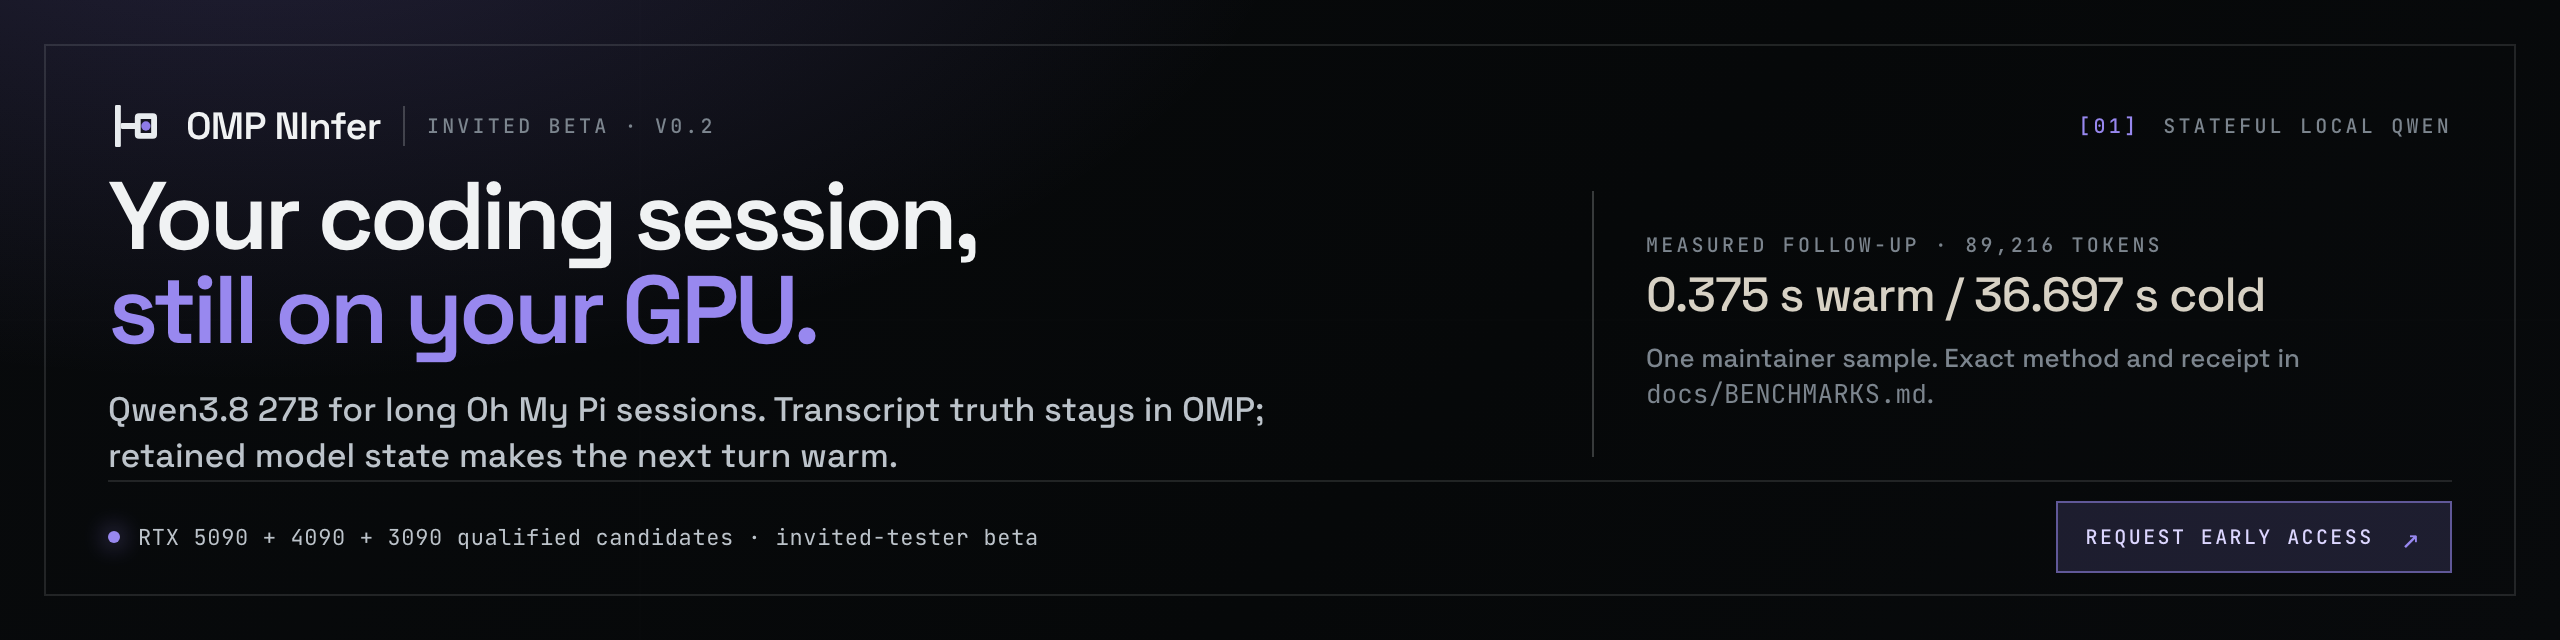
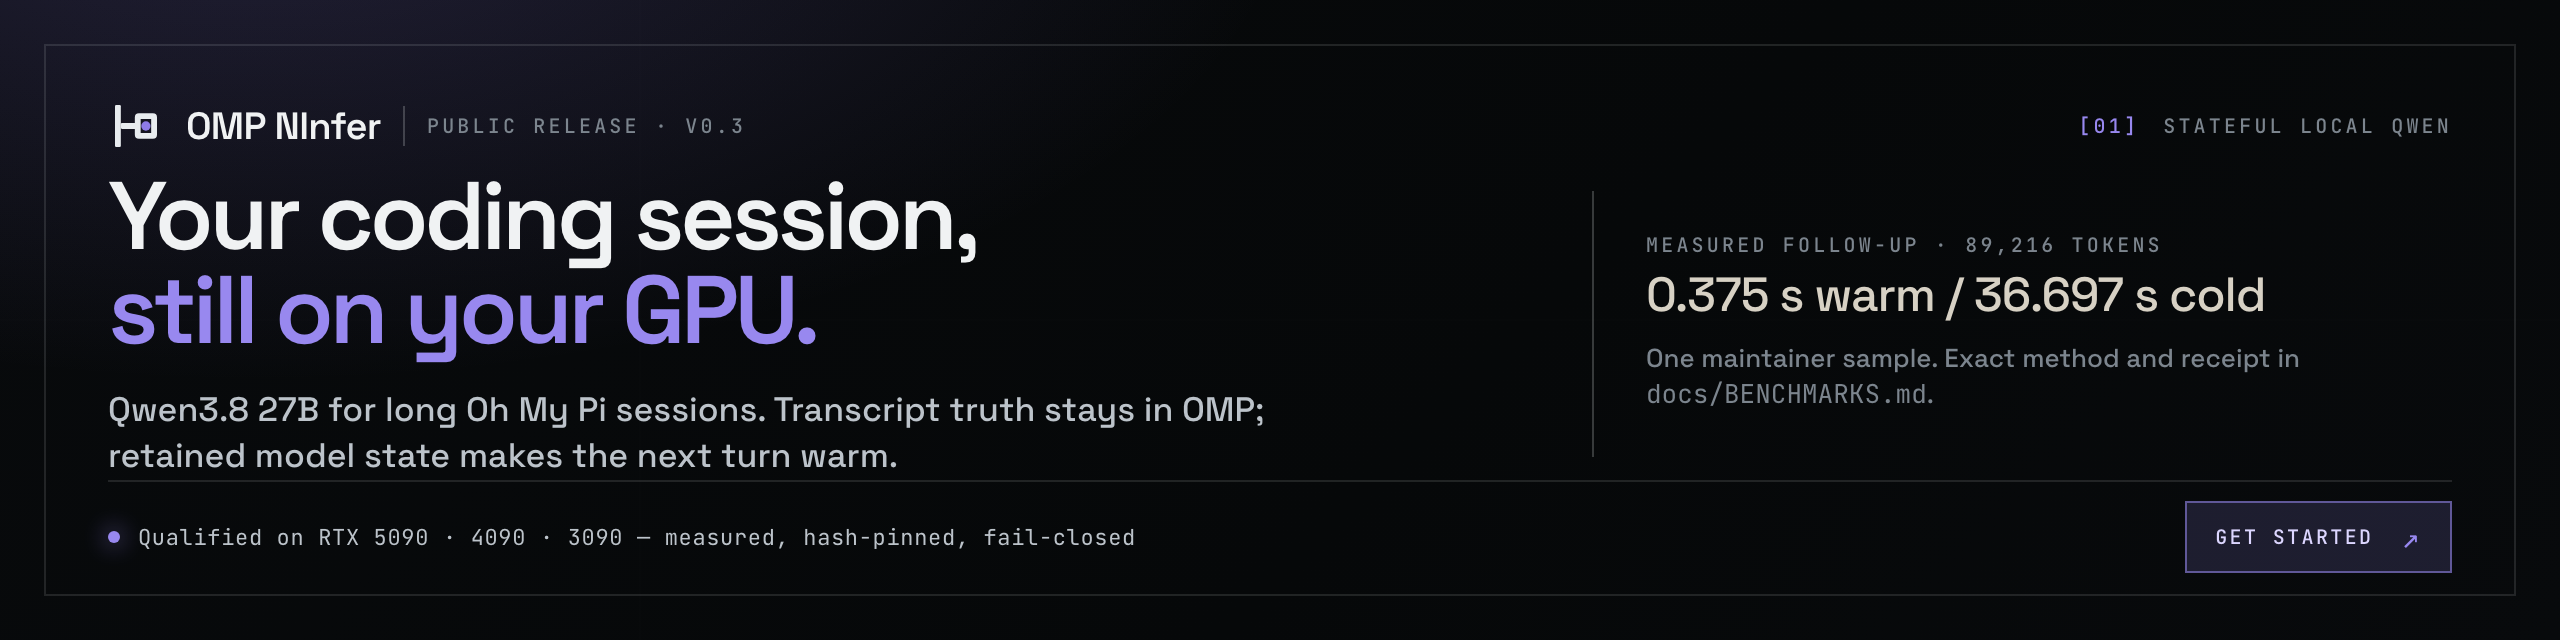
feat(assets): re-render release surfaces for v0.3

Changed region(s): [[0.0625, 0.8125, 0.4375, 0.875], [0.7812, 0.7812, 0.9375, 0.9062], [0.1562, 0.1875, 0.2812, 0.2188]]

diff --git a/assets/banner.html b/assets/banner.html
@@ -24,7 +24,7 @@
 <body>
 <div class="canvas banner">
   <div class="top">
-    <div class="brand"><img src="logo.svg" alt=""><span class="brand-name">OMP NInfer</span><span class="brand-rule"></span><span class="eyebrow">Invited beta · v0.2</span></div>
+    <div class="brand"><img src="logo.svg" alt=""><span class="brand-name">OMP NInfer</span><span class="brand-rule"></span><span class="eyebrow">Public release · v0.3</span></div>
     <div class="release eyebrow"><span class="index">[01]</span><span>Stateful local Qwen</span></div>
   </div>
   <div class="hero">
@@ -39,8 +39,8 @@
     </div>
   </div>
   <div class="bottom">
-    <div class="lane mono"><i></i><span>RTX 5090 + 4090 + 3090 qualified candidates · invited-tester beta</span></div>
-    <div class="cta"><span>Request early access</span><b>↗</b></div>
+    <div class="lane mono"><i></i><span>Qualified on RTX 5090 · 4090 · 3090 — measured, hash-pinned, fail-closed</span></div>
+    <div class="cta"><span>Get started</span><b>↗</b></div>
   </div>
 </div>
 </body>

diff --git a/assets/benchmarks.html b/assets/benchmarks.html
@@ -34,7 +34,7 @@
 <body>
 <div class="canvas evidence">
   <div class="head">
-    <div class="brand"><img src="logo.svg" alt=""><span class="brand-name">OMP NInfer</span><span class="brand-rule"></span><span class="eyebrow">Released evidence · v0.2</span></div>
+    <div class="brand"><img src="logo.svg" alt=""><span class="brand-name">OMP NInfer</span><span class="brand-rule"></span><span class="eyebrow">Released evidence · v0.3</span></div>
     <div class="eyebrow">Measured, not estimated</div>
   </div>
   <div class="main">
@@ -53,7 +53,7 @@
       <div class="lanes">
         <span class="pill"><span class="dot"></span>5090 qualified</span>
         <span class="pill"><span class="dot"></span>4090 qualified</span>
-        <span class="pill"><span class="dot"></span>3090 candidate</span>
+        <span class="pill"><span class="dot"></span>3090 qualified</span>
       </div>
     </aside>
   </div>

diff --git a/assets/og.html b/assets/og.html
@@ -30,7 +30,7 @@
 <body>
 <div class="canvas og">
   <div class="top">
-    <div class="brand"><img src="logo.svg" alt=""><span class="brand-name">OMP NInfer</span><span class="brand-rule"></span><span class="eyebrow">Invited-tester beta</span></div>
+    <div class="brand"><img src="logo.svg" alt=""><span class="brand-name">OMP NInfer</span><span class="brand-rule"></span><span class="eyebrow">Public release · v0.3</span></div>
     <div class="pill"><span class="dot"></span>Private · local · fail-closed</div>
   </div>
   <div class="hero">
@@ -46,7 +46,7 @@
   </div>
   <div class="bottom">
     <div class="proof"><strong>0.375 s warm</strong><span>vs 36.697 s cold · one 89,216-token sample</span></div>
-    <div class="cta"><span>Request early access</span><b>↗</b></div>
+    <div class="cta"><span>Get started</span><b>↗</b></div>
   </div>
 </div>
 </body>
